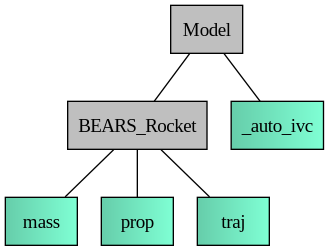
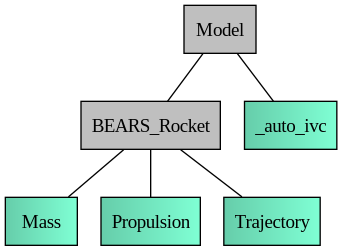
Switching back to GFM docs

diff --git a/solver.py b/solver.py
@@ -1,7 +1,9 @@
 #!/usr/bin/env python
 """
-@author: Andrii
-@date: 28.07.2026
+The rocket optimization script using OpenMDAO for the superstructure
+
+@author:  Andrii
+@license: GPL-3.0-or-later
 """
 
 #region Imports
@@ -21,6 +23,9 @@ from packages.BEARS_Rocket import RocketGroup
 
 #region Main
 def main():
+
+	opt_mr = True
+
 	#region Inputs
 	with open('inputs/reactants.json', 'r') as retrieved:
 		data = json.load(retrieved)
@@ -38,34 +43,38 @@ def main():
 	prob.driver.options['optimizer'] = 'SLSQP'
 
 	# Design variables
-	#prob.model.add_design_var('mixture_ratio',   lower=1.0, upper=10.0)
+	if opt_mr: prob.model.add_design_var('mixture_ratio', lower=1.0, upper=10.0, ref=2.0)
 	prob.model.add_design_var('propellant_mass', lower=1.0, upper=100.0, ref=10.0)
 
 	# Constraints
-	prob.model.add_constraint('apogee', equals=3000.0, ref=3000.0)
+	prob.model.add_constraint('apogee', equals=3100.0, ref=3100.0)
 
 	# Objectives
-	#prob.model.add_objective('prop.cstar', scaler=-1.0)
 	prob.model.add_objective('propellant_mass')
 
 	prob.setup()
 
 	# Dynamic variables
-	prob.set_val('mass.structural_coefficient', val=0.35)
+	prob.set_val('payload_mass', 1.0)
 
-	prob.set_val('prop.chamber_pressure', 35.0)
-	prob.set_val('prop.mixture_ratio',     6.0)
-	prob.set_val('prop.expansion_ratio',  40.0)
-	prob.set_val('prop.thrust',           20.0)
+	prob.set_val('Mass.structural_coefficient', val=(0.01 * 30)) # percentages
+
+	prob.set_val('Propulsion.chamber_pressure', 35.0)
+	prob.set_val('Propulsion.expansion_ratio',  20.0)
+	prob.set_val('Propulsion.thrust',           20.0)
 
 	# Optimization initial values
+	prob.set_val('mixture_ratio',   6.0)
 	prob.set_val('propellant_mass', 1.0)
-	prob.set_val('payload_mass',    1.0)
 
 	prob.run_driver()
 
-	print(f"Req propellant: {prob.get_val('propellant_mass')[0]} kg")
-	print(f"Final apogee:   {prob.get_val('apogee')[0]} m")
+	#region Output
+	print(f"m_prop:\t{prob.get_val('propellant_mass')[0]} kg")
+
+	if opt_mr: print(f"MR:\t{prob.get_val('mixture_ratio')[0]}")
+
+	print(f"h_max:\t{prob.get_val('apogee')[0]} m")
 
 	viewer = GraphViewer(prob.model)
 	for graph_type in ['dataflow', 'tree', 'cycle']:
@@ -75,6 +84,7 @@ def main():
 			show_vars=True,
 			outfile=f'figures/{graph_type}.png'
 		)
+	#endregion
 #endregion
 
 if __name__=="__main__": main()

diff --git a/packages/BEARS_Rocket/group_rocket.py b/packages/BEARS_Rocket/group_rocket.py
@@ -1,8 +1,3 @@
-"""
-@author: Andrii
-@date:   03.08.2026
-"""
-
 #region Imports
 from openmdao.api import Group
 from rocketcea.cea_obj import CEA_Obj
@@ -20,25 +15,29 @@ class RocketGroup(Group):
 	def setup(self):
 		cea = self.options['cea']
 
+		#region Subsystems
 		self.add_subsystem(
-			'prop',
-			ChemComponent(cea=cea)
-			#promotes_inputs=['mixture_ratio']
+			'Propulsion',
+			ChemComponent(cea=cea),
+			promotes_inputs=['mixture_ratio']
 		)
 
 		self.add_subsystem(
-			'mass',
+			'Mass',
 			MassComponent(),
 			promotes_inputs=['propellant_mass', 'payload_mass']
 		)
 
 		self.add_subsystem(
-			'traj',
+			'Trajectory',
 			TrajectoryComponent(),
 			promotes_outputs=['apogee']
 		)
+		#endregion
 
-		self.connect('prop.isp', 'traj.isp')
-		self.connect('prop.thrust', 'traj.thrust')
-		self.connect('mass.initial_mass', 'traj.initial_mass')
-		self.connect('mass.dry_mass', 'traj.dry_mass')
+		#region Connections
+		self.connect('Propulsion.isp', 'Trajectory.isp')
+		self.connect('Propulsion.thrust', 'Trajectory.thrust')
+		self.connect('Mass.initial_mass', 'Trajectory.initial_mass')
+		self.connect('Mass.dry_mass', 'Trajectory.dry_mass')
+		#endregion

diff --git a/packages/BEARS_Rocket/comp_cea.py b/packages/BEARS_Rocket/comp_cea.py
@@ -17,7 +17,7 @@ class ChemComponent(ExplicitComponent):
 
 		self.add_output('cstar',  val=1500.0, units='m/s') # characteristic velocity
 		self.add_output('isp',    val=120.0,  units='s')
-		self.add_output('thrust', val=120.0, units='N')
+		self.add_output('thrust', val=120.0,  units='N')
 
 	def setup_partials(self):
 		# Declare partial derivatives

diff --git a/README.md b/README.md
@@ -1,0 +1,70 @@
+# Code structure
+
+- `solver.py`: Main problem setup and optimization script
+
+- `inputs/`: The inputs directory
+
+- `packages/BEARS_Chem/`: The [CEA](#cea) parser module. Contains functions to
+  read the reactant data from input JSONs and parse it into a CEA object to be
+  passed to the propulsion subsystem
+
+- `packages/BEARS_Rocket/`: The [OpenMDAO](#openmdao) rocket assembly structure.
+
+# Packages
+
+## Required packages
+
+```
+openmdao
+rocketcea
+
+# For visualization
+pydot
+graphviz
+```
+
+Ininitalize a Python virtual environment:
+
+``` bash
+python -m venv env
+source env/bin/activate
+pip install openmdao rocketcea
+```
+
+Or execute the `recreate-env` Bash script
+
+## Package notes
+
+### OpenMDAO
+
+[OpenMDAO](https://openmdao.org/) (Open Muldi-Disciplinary Analysis and
+Optimization) is the multidisciplinary optimizer that will tie the whole solver
+program together. OpenMDAO works by organizing large calculations into groups
+and subsystems with corresponding Python classes
+
+| Module              | Component type    | Inputs | Outputs        |
+| ------------------- | ----------------- | ------ | -------------- |
+| RocketGroup         | Group             | -      | -              |
+| TrajectoryComponent | ExplicitComponent | `thrust`<br>`isp`<br>`initial_mass`<br>`dry_mass` | `apogee` |
+| MassComponent       | ExplicitComponent | `payload_mass`<br>`propellant_mass`<br>`structural_coefficient` | `initial_mass`<br>`dry_mass` |
+| ChemComponent       | ExplicitComponent | `chamber_pressure`<br>`mixture_ratio`<br>`expansion_ratio` | `cstar`<br>`isp`<br>`thrust` |
+
+### CEA
+
+[CEA](https://www.nasa.gov/glenn/research/chemical-equilibrium-with-applications/)
+is NASA's isentropic chemistry solver that will be used for chemical
+computations
+
+We use [RocketCEA](https://rocketcea.readthedocs.io/en/latest/index.html)
+instead of the plain
+[CEA Python interface](https://nasa.github.io/cea/interfaces/python_api.html)
+because that package is intended specifically for rocketry development
+
+CEA doesn't understand the full chemistry of polymer reactants, and polymers
+are modelled with a pseudo-species of fixed polymer chain length
+
+# Theory
+
+## Chemical data
+
+[ABS properties](https://pubchem.ncbi.nlm.nih.gov/compound/ACRYLONITRILE-BUTADIENE-STYRENE#section=Computed-Properties)
